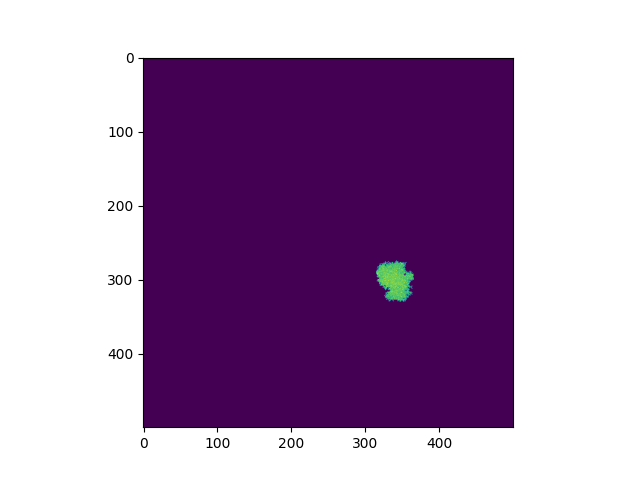
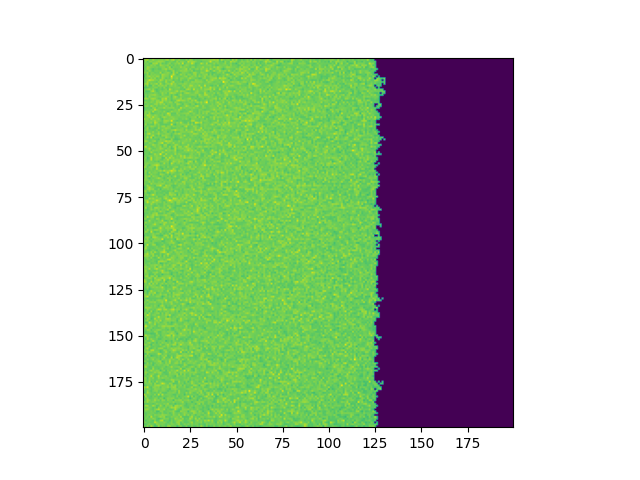
Added petri dish simulation

Changed region(s): [[0.1562, 0.125, 0.75, 0.9375]]

diff --git a/evo_island_main.py b/evo_island_main.py
@@ -4,7 +4,7 @@ import random
 import matplotlib.pyplot as plt
 import imageio
 
-level_difficulty = {1: 10, 2: 50, 3: 60, 4: 80, 5: 90}
+level_difficulty = {1: 10, 2: 40, 3: 50, 4: 70, 5: 90}
 
 def visualize_matrix(matrix):
     fig, ax = plt.subplots()
@@ -32,6 +32,19 @@ def generate_island(n, use_perlin_noise=True, randomize_params=True, use_migrati
 
     return world
 
+def generate_petri_dish(n):
+    if n <= 0:
+        return []
+
+    array = [[0] * n for _ in range(n)]
+    increment = 4 / (n - 1)
+
+    for i in range(n):
+        for j in range(n):
+            array[i][j] = round((j * increment) + 1)
+
+    return array
+    
 def generate_terrain(n, use_perlin_noise=True, randomize_params=True):
     if use_perlin_noise:
         if randomize_params:
@@ -52,7 +65,7 @@ def generate_terrain(n, use_perlin_noise=True, randomize_params=True):
                 world[i][j] = noise.pnoise2(i/scale, j/scale, octaves=octaves, persistence=persistence, 
                                             lacunarity=lacunarity, repeatx=n, repeaty=n, base=0)
 
-        # Scale and shift the values to the range [1, 3]
+        # Scale and shift the values to the range [1, 5]
         world = (world - np.min(world)) * (5-1)/(np.max(world)-np.min(world)) + 1
 
         # Round the values to integers
@@ -209,20 +222,21 @@ def run_game():
 
     
     # configurable parameters, change as needed
-    map_size = 1000
-    simulation_steps = 3000
+    map_size = 200
+    simulation_steps = 500
     use_perlin_noise = True  # set to False to use random integer generation instead
     use_random_params = False # set to False to use preset perlin parameters
     use_rivers = True # set to False to remove rivers
 
     #game initialization
     agent_starting_pos = 0,0
-    game_world = generate_island (map_size, use_perlin_noise, use_random_params, use_rivers)
+    #game_world = generate_island (map_size, use_perlin_noise, use_random_params, use_rivers)
+    game_world = generate_petri_dish(map_size)
     agent_matrix = generate_agent_matrix(map_size)
 
     #place initial agent
-    #agent_matrix[agent_starting_pos[0]][agent_starting_pos[1]] = train_new_individual()
-    agent_matrix[random.randint(0, len(agent_matrix)-1)][random.randint(0, len(agent_matrix[0])-1)] = train_new_individual()
+    agent_matrix[agent_starting_pos[0]][agent_starting_pos[1]] = train_new_individual()
+    #agent_matrix[random.randint(0, len(agent_matrix)-1)][random.randint(0, len(agent_matrix[0])-1)] = train_new_individual()
 
 
     #print initial state
@@ -239,7 +253,7 @@ def run_game():
     
     frames = [] # array to save images of the heatmap
 
-    print ("Beginning Simulation...")
+    print ("Running Simulation...")
     print ("\n")
     #main game loop here
     current_sim_step = 0
